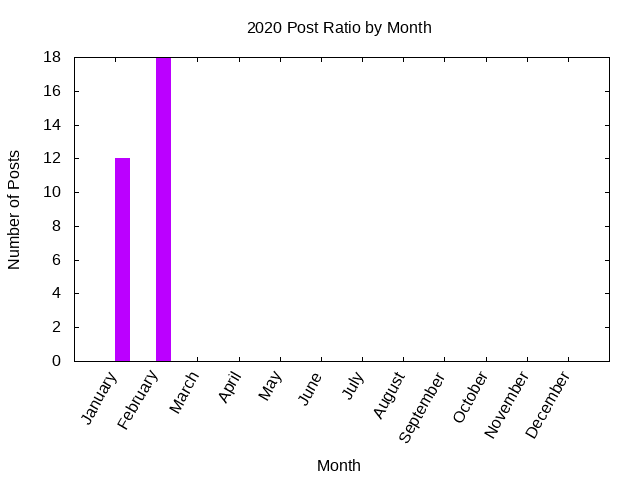
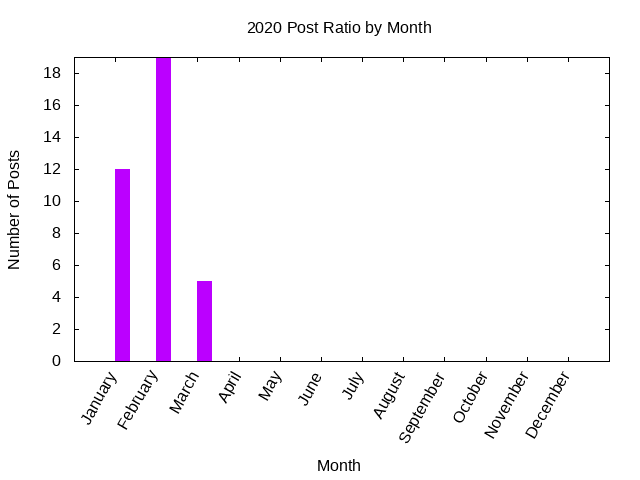
Update stats

diff --git a/_includes/stats/2020.md b/_includes/stats/2020.md
@@ -1,36 +1,38 @@
 ## 2020 (work in progress)
 
-**30 total posts** have been written on 2020.
-There have been *27 different tags* used, the most
+**36 total posts** have been written on 2020.
+There have been *29 different tags* used, the most
 used popular being (in order of number of posts):
  
-- *raku* (11 posts)  
-- *perl-weekly-challenge* (7 posts)  
-- *postgresql* (7 posts)  
-- *planet-postgresql-org* (6 posts)  
+- *raku* (15 posts)  
+- *perl-weekly-challenge* (11 posts)  
+- *postgresql* (9 posts)  
+- *planet-postgresql-org* (7 posts)  
 - *blog* (4 posts)  
-- *oracle* (3 posts)  
-- *linux* (3 posts)  
 - *php* (3 posts)  
-- *freebsd* (2 posts)  
+- *linux* (3 posts)  
+- *oracle* (3 posts)  
 - *perl* (2 posts)  
-- *opensource* (1 posts)  
-- *ssh* (1 posts)  
-- *kde* (1 posts)  
-- *programming* (1 posts)  
-- *multithreading* (1 posts)  
-- *swap* (1 posts)  
-- *sql* (1 posts)  
+- *freebsd* (2 posts)  
 - *perl5* (1 posts)  
-- *git* (1 posts)  
+- *programming* (1 posts)  
+- *opensource* (1 posts)  
+- *itpug* (1 posts)  
 - *qt* (1 posts)  
-- *cryptsetup* (1 posts)  
-- *hacktoberfest* (1 posts)  
+- *multithreading* (1 posts)  
 - *java* (1 posts)  
+- *git* (1 posts)  
+- *cryptsetup* (1 posts)  
+- *ssh* (1 posts)  
 - *university* (1 posts)  
 - *magit* (1 posts)  
+- *aglets* (1 posts)  
+- *hacktoberfest* (1 posts)  
+- *rant* (1 posts)  
+- *swap* (1 posts)  
+- *kde* (1 posts)  
 - *big-bang-theory* (1 posts)  
-- *aglets* (1 posts).<br/>
+- *sql* (1 posts).<br/>
 <br/>
 The following is the overall 2020 post ratio by month:
 <br/>
@@ -49,7 +51,7 @@ The following is the overall 2020 post ratio by tag (showing max 30 tags):
 
 <div align="right">
 <small>
-Last generated on 2020-02-24 at 13:28
+Last generated on 2020-03-23 at 13:52
 </small>
 </div>
 
